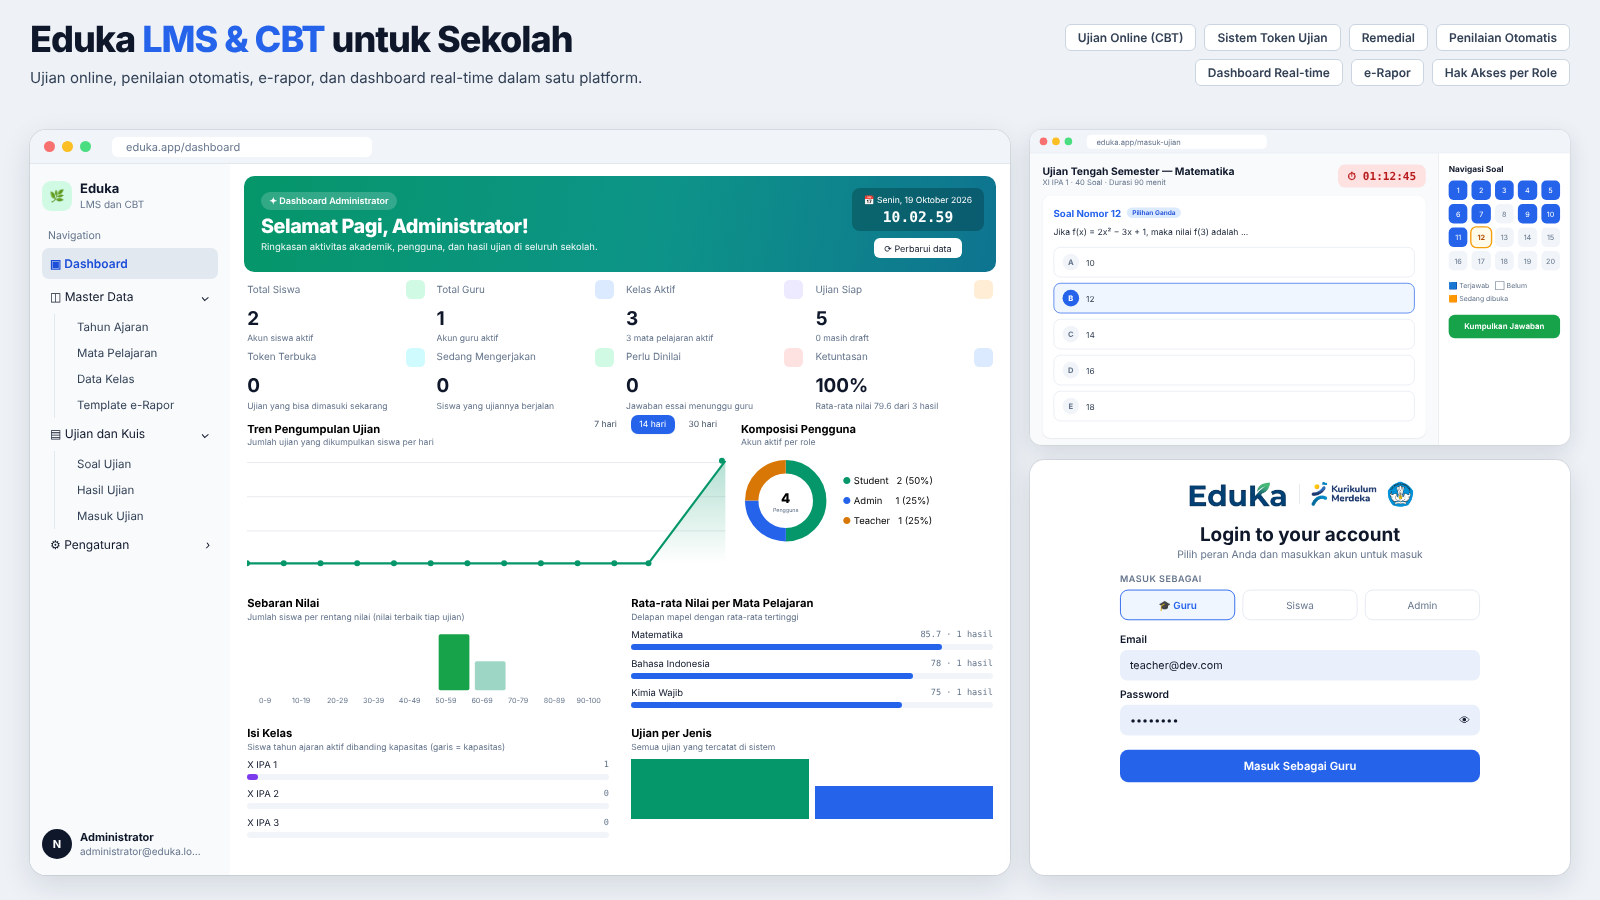
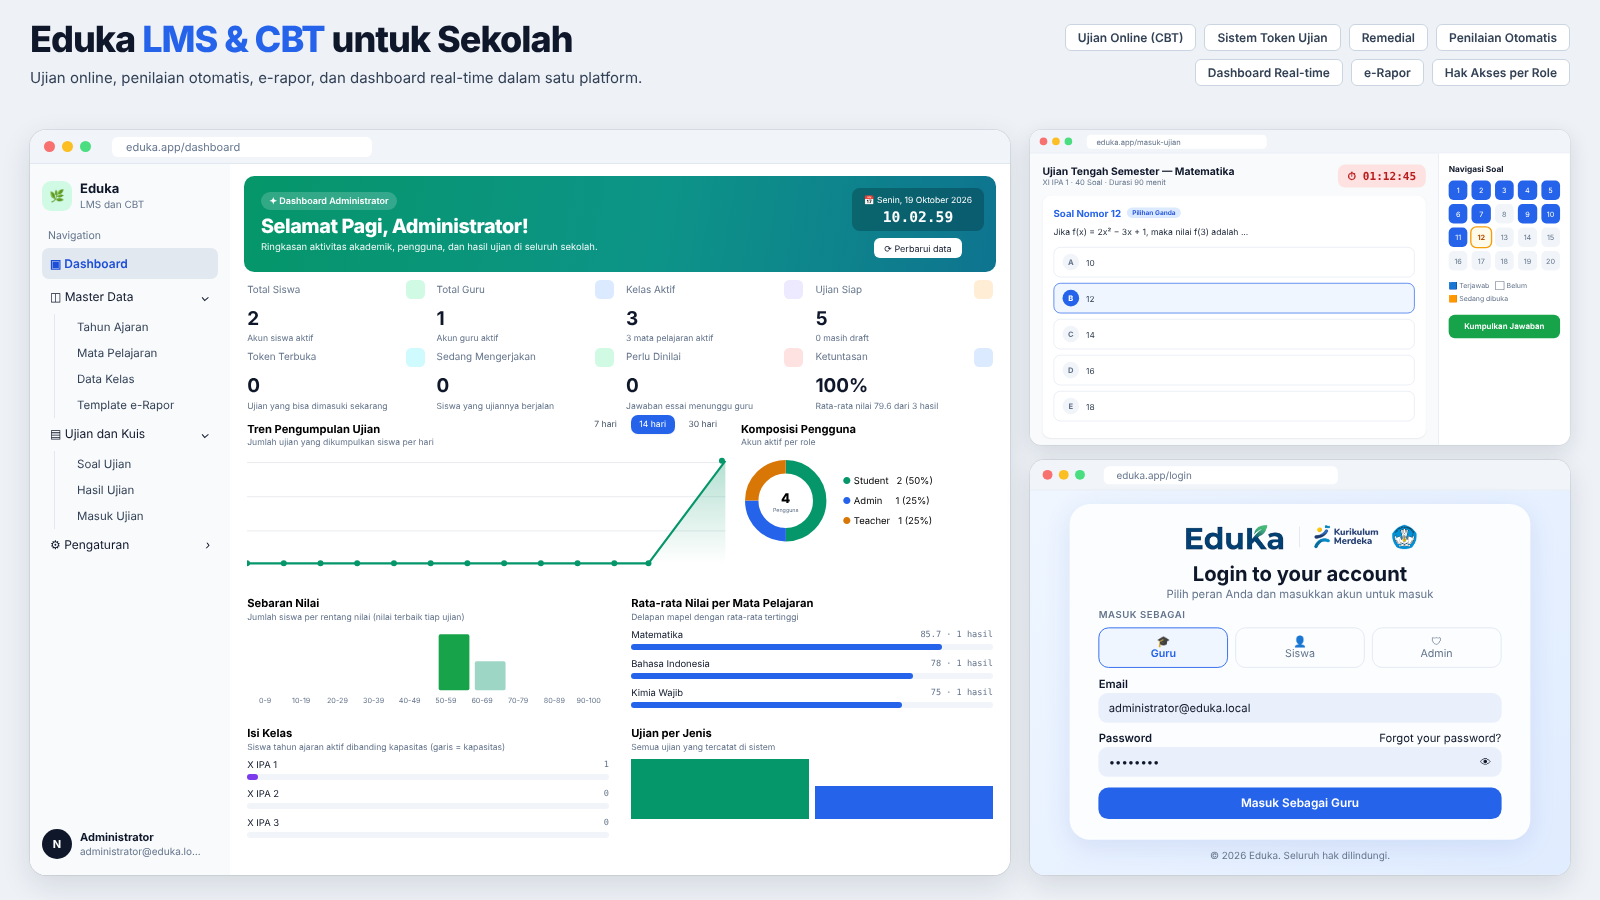
Thumbnail: login sesuai tampilan asli
Claude-Session: https://claude.ai/code/session_01ATwfgHp4Vpqeq6htkAiMvw

Changed region(s): [[0.6562, 0.5289, 1.0, 0.9956]]

diff --git a/docs/thumbnail/thumbnail.html b/docs/thumbnail/thumbnail.html
@@ -145,12 +145,18 @@ table{width:100%;border-collapse:collapse;font-size:10.5px}td,th{padding:5px 4px
 </div>
 
 <!-- LOGIN -->
-<div class="win login" style="left:1030px;top:460px;width:600px;height:461px;transform:scale(.9);transform-origin:top left">
- <div class="logos"><img src="eduka.png" height="32"><span style="width:1px;height:22px;background:#e2e8f0"></span><img src="kurikulum.png" height="28"><img src="pendidikan.png" height="28"></div>
- <h3>Login to your account</h3><p class="s">Pilih peran Anda dan masukkan akun untuk masuk</p>
- <div class="lbl" style="font-size:10px;color:#64748b;letter-spacing:.06em">MASUK SEBAGAI</div>
- <div class="roles"><div class="on">🎓 Guru</div><div>Siswa</div><div>Admin</div></div>
- <div class="lbl">Email</div><div class="inp">teacher@dev.com</div>
- <div class="lbl">Password</div><div class="inp"><span>••••••••</span><span>👁</span></div>
- <div class="btn">Masuk Sebagai Guru</div>
+<div class="win" style="left:1030px;top:460px;width:600px;height:461px;transform:scale(.9);transform-origin:top left">
+ <div class="bar"><i style="background:#f87171"></i><i style="background:#fbbf24"></i><i style="background:#4ade80"></i><span>eduka.app/login</span></div>
+ <div style="height:calc(100% - 34px);background:linear-gradient(135deg,#eff6ff,#e0ecff);display:flex;flex-direction:column;align-items:center;justify-content:center;gap:10px">
+  <div style="zoom:1.25;width:410px;background:#fbfdff;border-radius:18px;padding:16px 26px 18px;box-shadow:0 6px 24px rgba(30,64,175,.1)">
+   <div class="logos" style="margin-bottom:8px"><img src="eduka.png" height="26"><span style="width:1px;height:18px;background:#e2e8f0"></span><img src="kurikulum.png" height="22"><img src="pendidikan.png" height="22"></div>
+   <h3 style="text-align:center;font-size:18px;color:#0f172a">Login to your account</h3><p style="text-align:center;font-size:10px;color:#64748b;margin:2px 0 8px">Pilih peran Anda dan masukkan akun untuk masuk</p>
+   <div style="font-size:8.5px;color:#64748b;letter-spacing:.06em;font-weight:600">MASUK SEBAGAI</div>
+   <div class="roles" style="margin:5px 0 8px;gap:6px"><div class="on" style="padding:6px 0;font-size:9.5px">🎓<br>Guru</div><div style="padding:6px 0;font-size:9.5px">👤<br>Siswa</div><div style="padding:6px 0;font-size:9.5px">🛡<br>Admin</div></div>
+   <div class="lbl" style="font-size:10px;margin:4px 0 3px">Email</div><div class="inp" style="height:26px;font-size:10px;padding:7px 9px">administrator@eduka.local</div>
+   <div class="lbl" style="font-size:10px;margin:7px 0 3px;display:flex;justify-content:space-between">Password<span style="font-weight:400">Forgot your password?</span></div><div class="inp" style="height:26px;font-size:10px;padding:7px 9px"><span>••••••••</span><span>👁</span></div>
+   <div class="btn" style="margin-top:10px;height:28px;line-height:28px;font-size:10.5px">Masuk Sebagai Guru</div>
+  </div>
+  <div style="font-size:11px;color:#64748b">© 2026 Eduka. Seluruh hak dilindungi.</div>
+ </div>
 </div>
